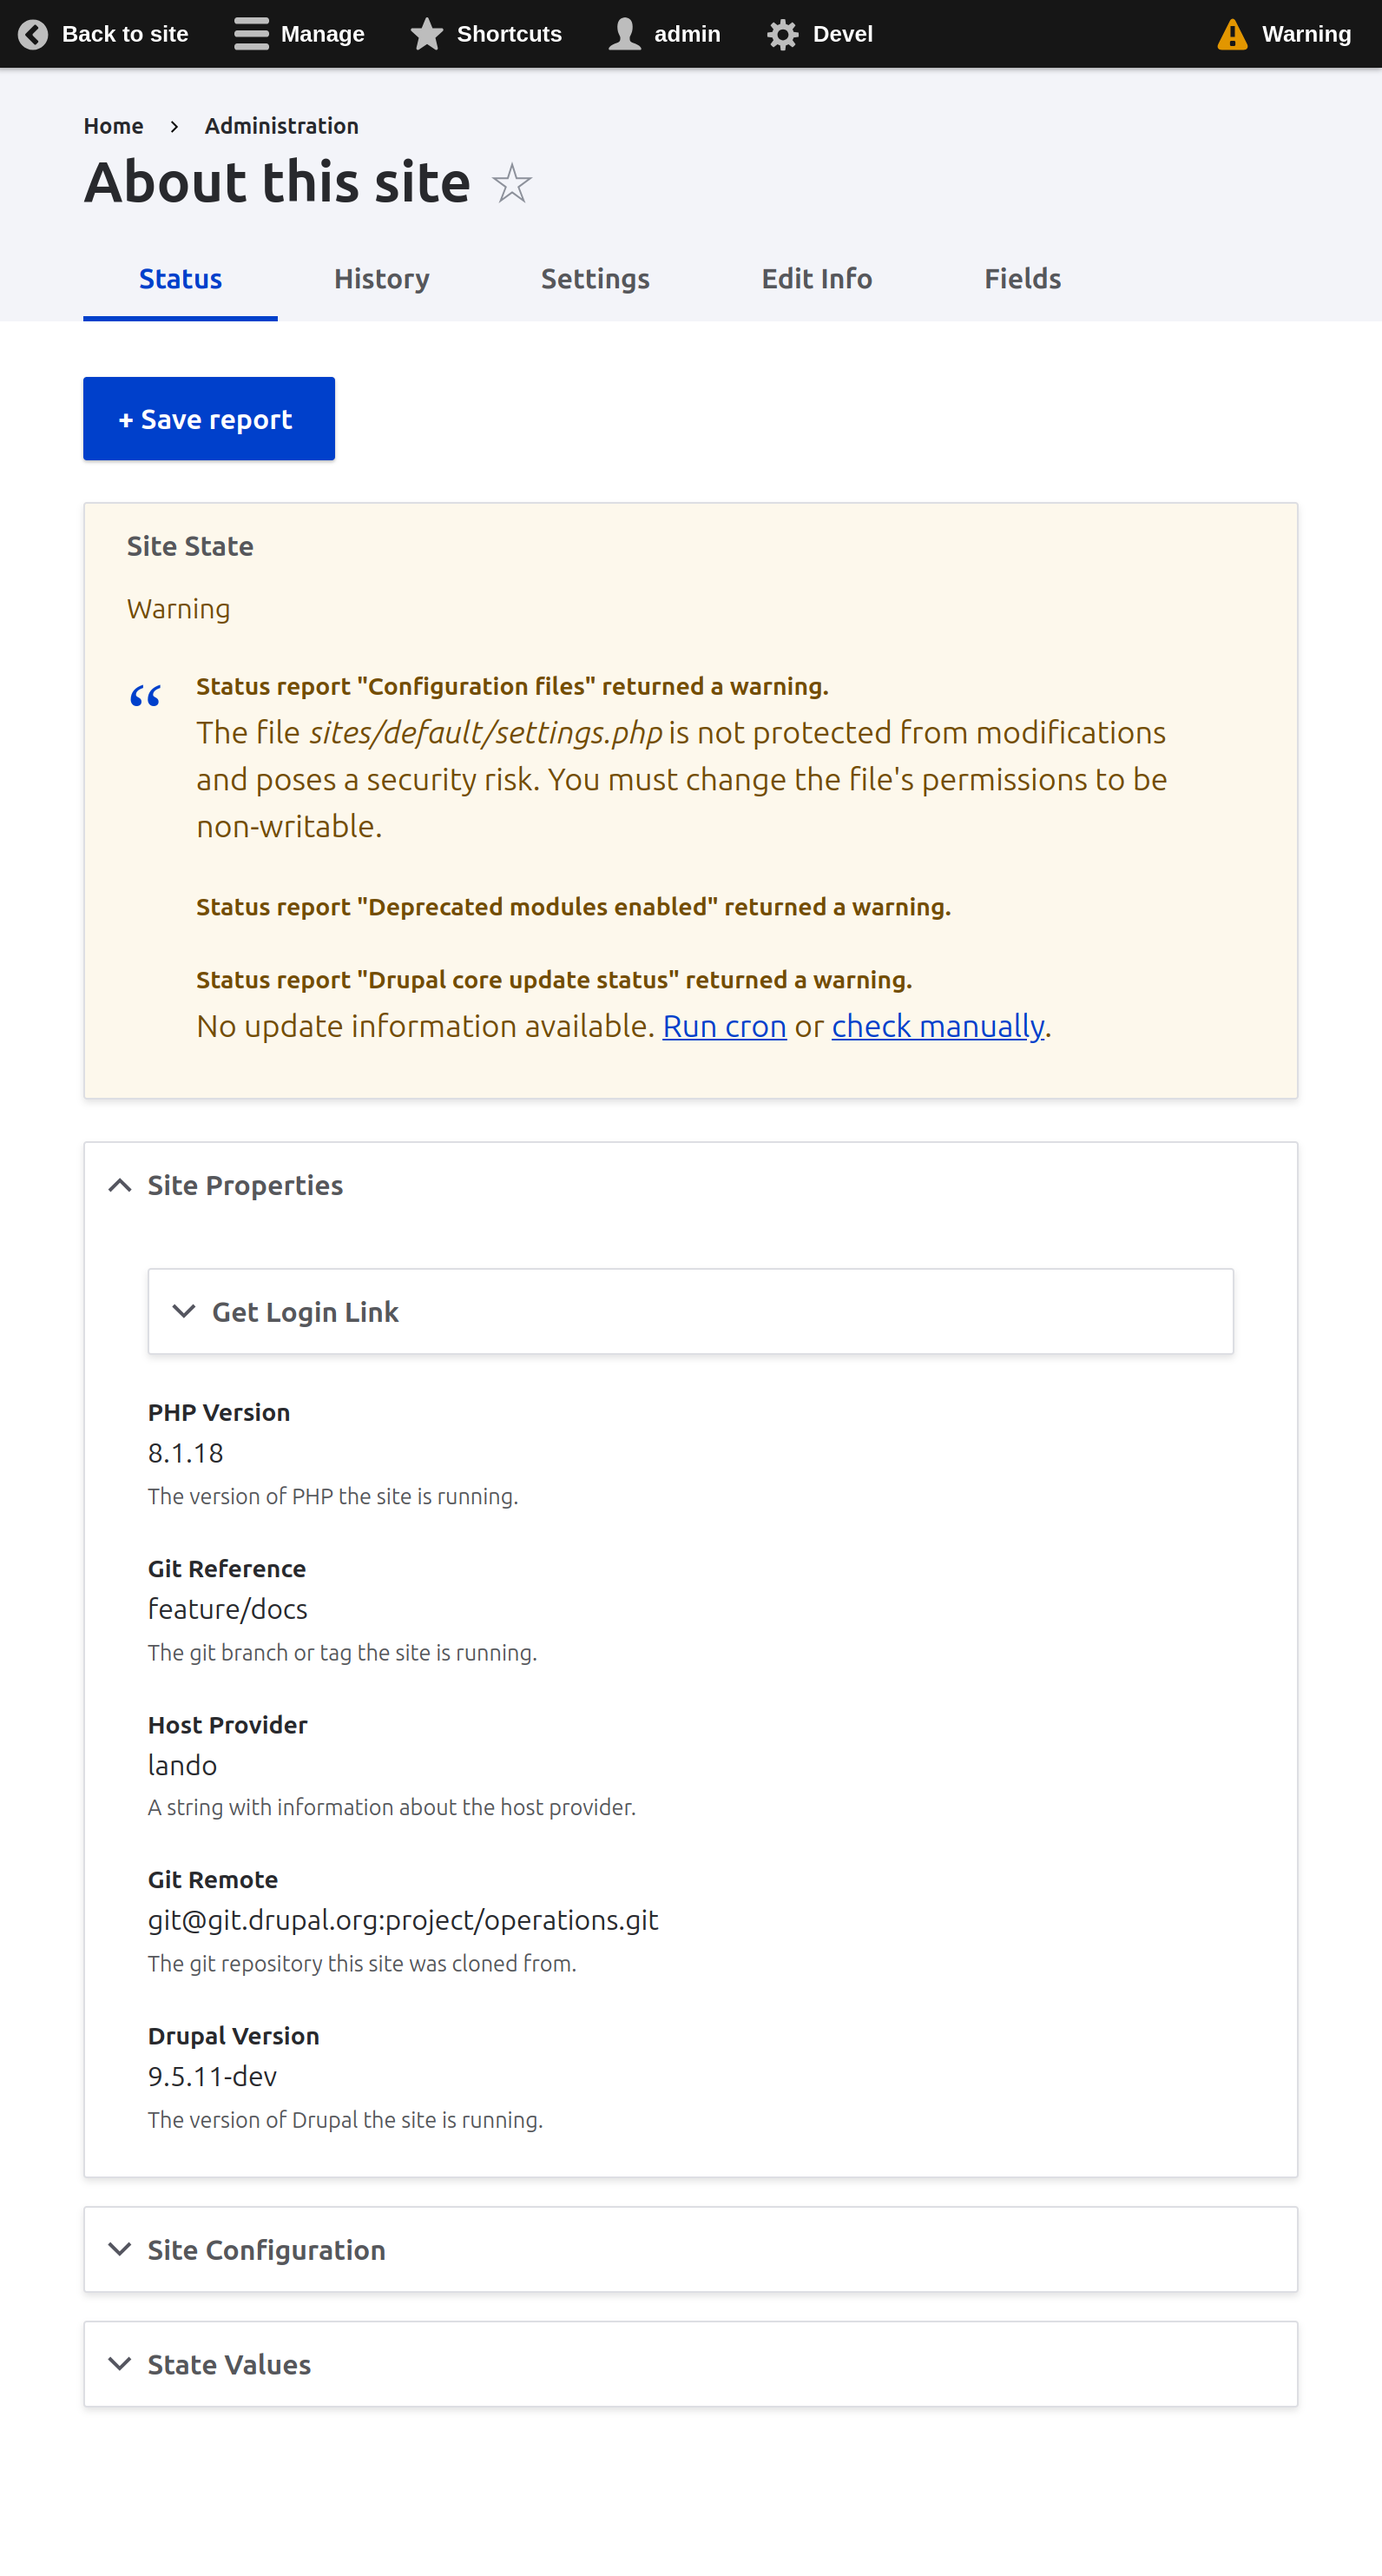
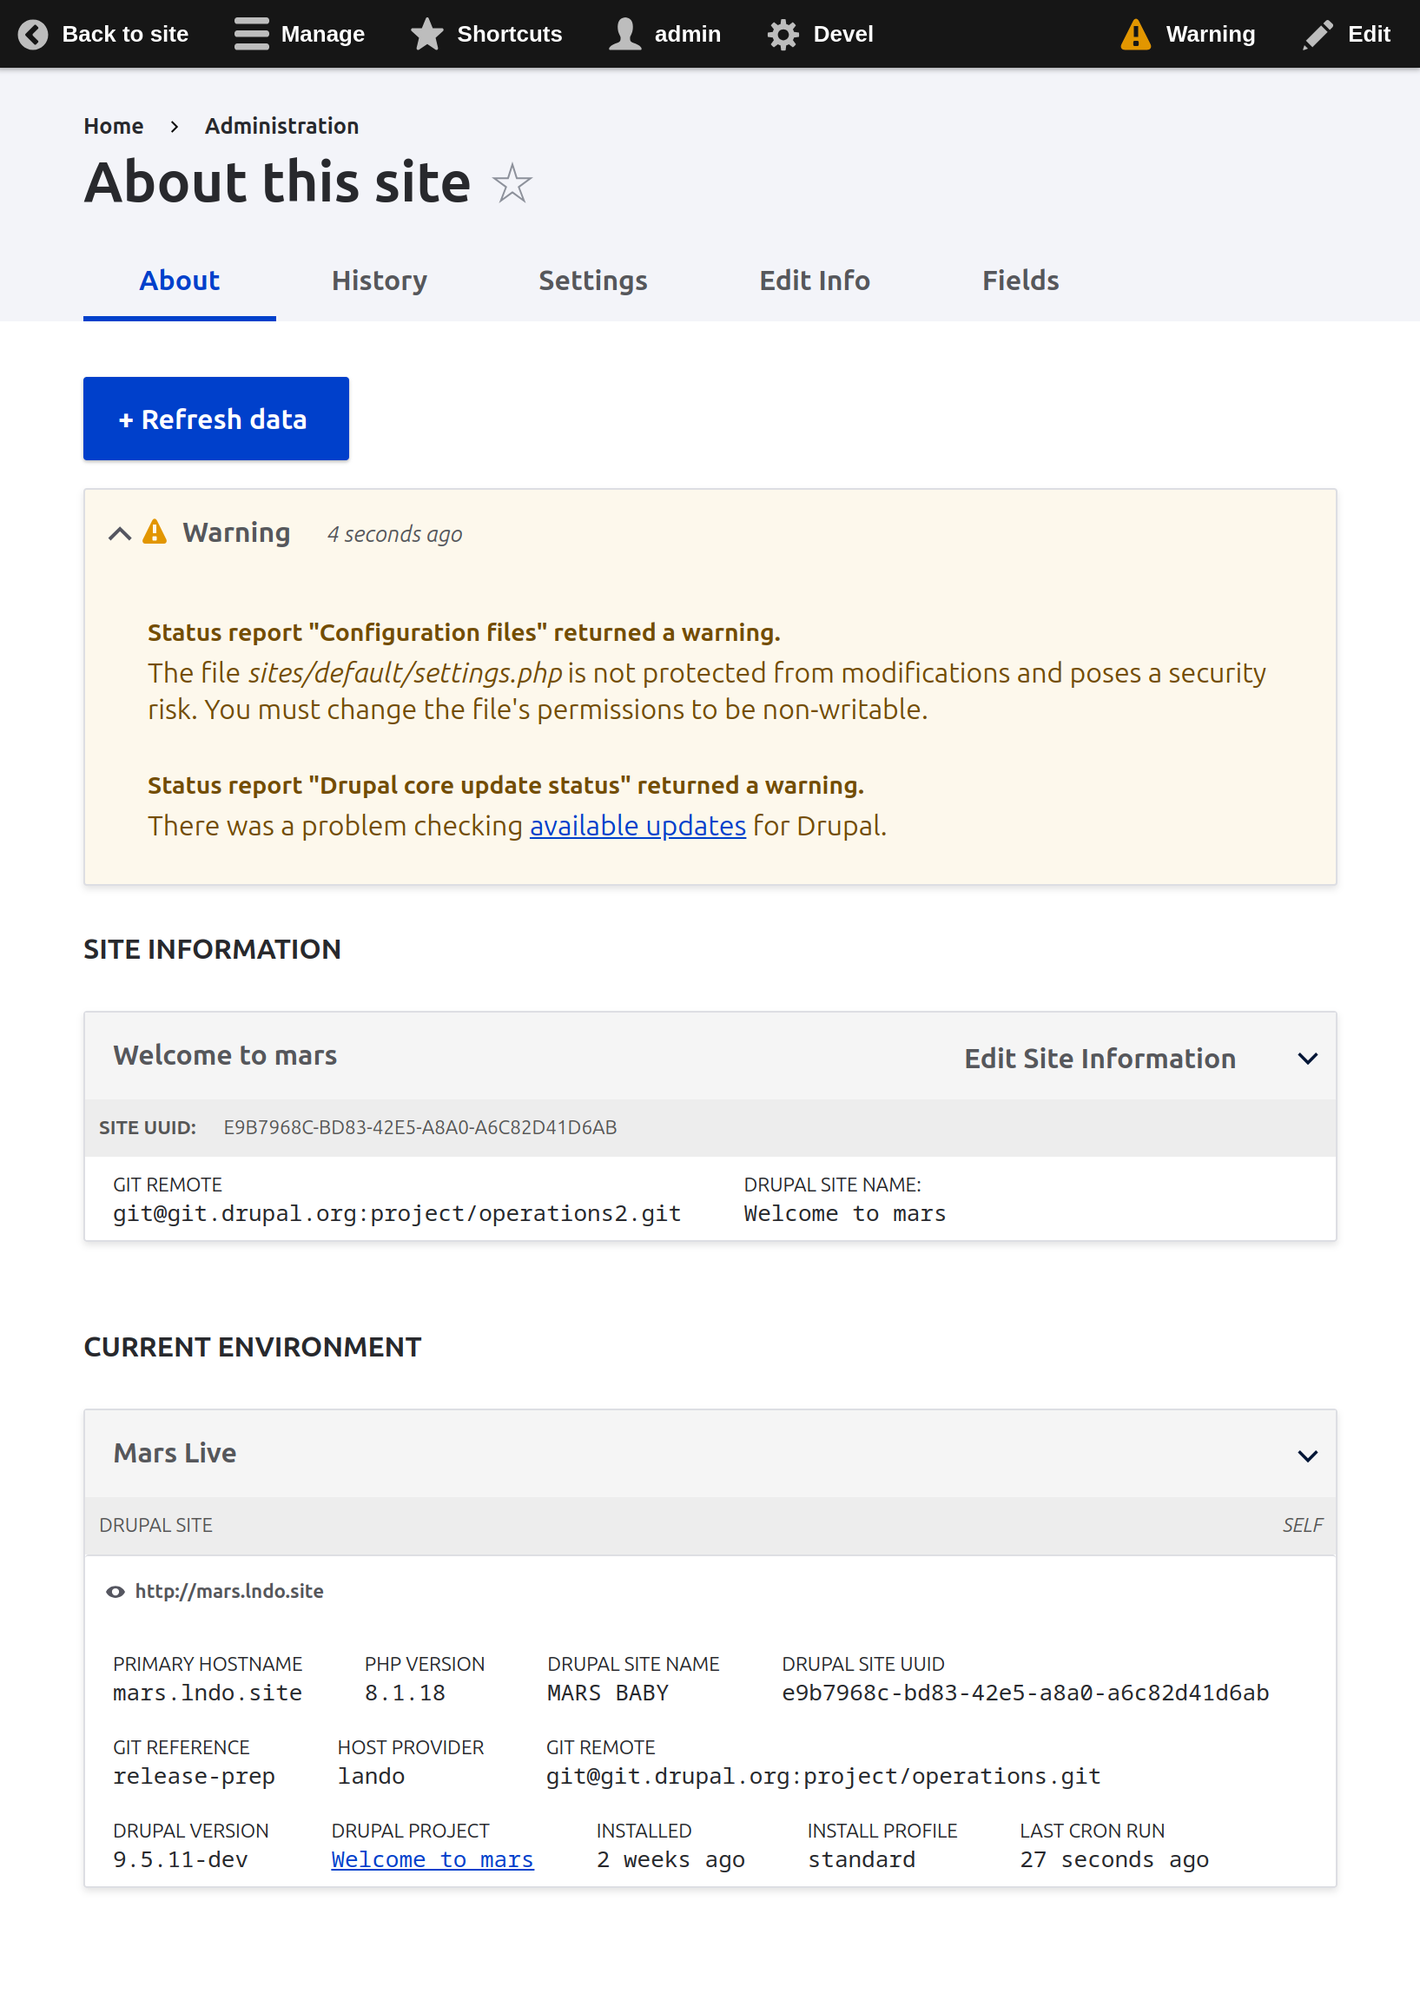
Updating docs for 2.x.

diff --git a/src/modules/site/src/Controller/SiteActionsController.php b/src/modules/site/src/Controller/SiteActionsController.php
@@ -46,7 +46,25 @@ class SiteActionsController extends ControllerBase {
    * @return \Symfony\Component\HttpFoundation\RedirectResponse
    */
   public function refresh(SiteEntity $site) {
-    $site->getRemote()->save();
+    // Get remote data...
+    $site = $site->getRemote();
+    $violations = $site->validate();
+
+    // Save the site if there are no violations.
+    // @TODO: getRemote() triggers a EntityChangedConstraintValidator to fail.
+    // This code ignores it.
+    if ($violations->count() == 0 || ($violations->count() == 1 && $violations->get(0)->getMessageTemplate() == "The content has either been modified by another user, or you have already submitted modifications. As a result, your changes cannot be saved.")) {
+      $site->save();
+      \Drupal::messenger()->addStatus(t('Site data has been updated.'));
+    }
+    else {
+
+      \Drupal::messenger()->addStatus(t('The site could not validate:'));
+      foreach ($violations as $violation) {
+        \Drupal::messenger()->addError($violation->getMessage());
+      }
+    }
+
     return $this->redirect('entity.site.canonical', [
       'site' => $site->id(),
     ]);

diff --git a/src/modules/site/src/Entity/DrupalProject.php b/src/modules/site/src/Entity/DrupalProject.php
@@ -7,6 +7,7 @@ use Drupal\Core\Entity\EntityStorageInterface;
 use Drupal\Core\Entity\EntityTypeInterface;
 use Drupal\Core\Entity\RevisionableContentEntityBase;
 use Drupal\Core\Field\BaseFieldDefinition;
+use Drupal\Core\Field\FieldStorageDefinitionInterface;
 use Drupal\Core\Routing\RedirectDestinationTrait;
 use Drupal\Core\Url;
 use Drupal\site\DrupalProjectInterface;
@@ -382,7 +383,21 @@ class DrupalProject extends RevisionableContentEntityBase implements DrupalProje
       ->setDisplayConfigurable('view', TRUE);
     ;
 
-
+    $fields['canonical_url'] = BaseFieldDefinition::create('uri')
+      ->setRevisionable(TRUE)
+      ->setRequired(FALSE)
+      ->setLabel(t('Canonical URL'))
+      ->setDescription(t('The main URL that this site is hosted under.'))
+      ->setDisplayConfigurable('form', TRUE)
+      ->setDisplayOptions('form', [
+        'type' => 'string_textfield',
+      ])
+      ->setDisplayConfigurable('view', TRUE)
+      ->setDisplayOptions('view', [
+        'label' => 'inline',
+        'type' => 'link',
+      ])
+    ;
 
     return $fields;
   }

diff --git a/src/modules/site/src/Plugin/SiteProperty/DrupalSiteUuid.php b/src/modules/site/src/Plugin/SiteProperty/DrupalSiteUuid.php
@@ -48,6 +48,10 @@ class DrupalSiteUuid extends SitePropertyPluginBase {
         'type' => 'string',
       ])
       ->setDisplayConfigurable('form', TRUE)
+      ->setDisplayOptions('form', [
+        'type' => 'string_textfield',
+        'weight' => -90,
+      ])
     ;
 
     return $fields;

diff --git a/docs/SITE.md b/docs/SITE.md
@@ -34,6 +34,16 @@ This information is saved over time in *Site Reports*. Press the *Save Report*
 button 
 saves this information as a snapshot, viewable on the *History* tab.
 
+### Site Information 
+#### "Drupal Project" entity
+
+This display is a "Drupal Project" entity. It is the same across all environments of your Drupal website. Use it for fields you wish to make available to all instances of this site.
+
+### Current Environment
+#### "Site" Entity
+
+This display is for the "Site" entity, unique to the environment you are running in. When loading this page in a new environment, you will see a "Create Site Record" button instead of this display. Click it to create the site entity with all properties gathered.
+
 ### Site State
 
 *Site State* is a single value that represents the overall state of your 
@@ -90,7 +100,6 @@ page.
 ![Site History](site-history.png)
 
 ## Site History Reports
-
 <img src="site-report.png" alt="Site State Settings" width="50%" align="right"/>
 
 Each entry in the Site History page is a snapshot in time.
@@ -144,25 +153,24 @@ small changes to their site using SiteEntity fields.
 
 <br clear="both">
 
-### Retrieving Site Entity Fields
+### Retrieving Site Entity & Drupal Project Fields
 
-Loading the Site Entity to get it's fields is almost the same as any other 
-entity.
+Loading the Site Entity or Drupal Project entity to get it's fields is almost the same as any other entity.
 
 Instead of loading it by ID, you can just get the site entity for the 
-current site with `SiteEntity::getSelf()`
+current site with `SiteEntity::getSelf()` or `DrupalProject::getSelf()`.
 
 For example, to load a field and present a message, you can use this code. 
 ```php
 <?php 
-  use \Drupal\site\Entity\SiteEntity;
+  use \Drupal\site\Entity\DrupalProject;
   
   // Load the entity just like any other, but with loadSelf().
-  /** @var SiteEntity $site_entity */
-  $site_entity = SiteEntity::loadSelf();
+  /** @var DrupalProject $drupal_project */
+  $drupal_project = SiteEntity::loadSelf();
   
   // Load the field value just like any field.
-  $welcome_message = $site_entity->get('field_welcome_message')->value;
+  $welcome_message = $drupal_project->get('field_welcome_message')->value;
   
   // Do something with the value.
   \Drupal::messenger()->addStatus($welcome_message);
@@ -175,6 +183,12 @@ For example, to load a field and present a message, you can use this code.
 
 <br clear="both">
 
+### Site vs Project
+
+Remember: anything unique to that environment is saved to `SiteEntity` objects. This means URLs, PHP Version, etc. 
+
+Data that is saved across environments is saved into `DrupalProject` entities. If you wish to use fields for your site with the same entity in every environment, use the `DrupalProject` entity. The only properties included by default are Site UUID, git URL, and Canonical URL.
+
 ## Site Settings
 The Site Settings page controls how Site Status and Reports are handled.
 
@@ -183,8 +197,7 @@ The Site Settings page controls how Site Status and Reports are handled.
 ## State
 
 The factors that affect Site State can be configured. Currently supported 
-factors are Drupal Core Status report page, and [Site Audit](https://drupal.
-org/project/site_audit) module.
+factors are Drupal Core Status report page, and [Site Audit](https://drupal.org/project/site_audit) module.
 
 Choose the factors that make the most sense for your site.
 <br clear="both">
@@ -233,24 +246,40 @@ site and Manage Display and Form just like any other Drupal site.
 
 See [SiteEntity Class](../src/modules/site/src/Entity/SiteEntity.php).
 
-### Site Definition
+### Site Entity Bundles
 
-A "Site Definition" is a Config Entity that has special methods for loading
-realtime information into the `SiteDefinition` class.
+Site Entity bundles are for different types of sites. Each bundle type contains the fields that make sense for that type.
 
-Each site gets a single `SiteDefinition` config item called `site.
-site_definition.self`. The config is managed on the [Site Settings](#site-settings)
-page.
+1. `SiteEntity`: Top object. All site entities have these fields: hostname, site_uri, state, reason, site_title, data, settings.
+2. `DefaultSiteBundle` 
+   - `getRemote()` method loads HTTP status and content from site_uri fields.
+   - `getPageTitle()` method parses the HTML and loads the <title> field. 
+   - 
+4. `WebAppBundle` > `PhpSiteBundle`: Placeholders. Could be used in the future for non PHP, non Drupal websites.
+4. `DrupalSiteBundle`: 
+   - `getRemote()` method accesses SiteAPI to gather data, if it exists.
+5. `SiteManagerSiteBundle`: Used to connect to a remote Site Manager instance. Validates the API key works.
 
-The `SiteDefinition` entity represents real-time values for state and
-properties.
+`SiteProperty` fields can define what bundles they appear on, allowing fields to attach to different site types depending on what they are.
 
-To save these properties for use later, `SiteDefinition::saveEntity()` is
-used to create and store a new revision of the Site's `SiteEntity`.
+For example, the PHP Version property is attached to `PhpSiteBundles`, and every bundle that extends it (Such as `DrupalSiteBundle`.)
 
-See [SiteDefinition Class](../src/modules/site/src/Entity/SiteDefinition.php).
+      /*
+      * @SiteProperty(
+      *   id = "php_version",
+      *   name = "php_version",
+      *   label = @Translation("PHP Version"),
+      *   site_bundles = {
+      *     "Drupal\site\Entity\Bundle\PhpSiteBundle"
+      *   },
+      *   description = @Translation("The version of PHP the site is running.")
+      */
 
-### Site Property
+### Drupal Project
+
+A "Drupal Project" entity is stored once per installed Drupal site. The ID of the project is the Drupal Site UUID. This entity gets copied along with your content to other environments. Use it to store field data that needs to be available in all environments.
+
+### Site Properties
 
 The `SiteProperty` Plugin type is a simple class that defines a data point
 about the site.
@@ -263,3 +292,18 @@ for later use.
 
 See [Plugins\SiteProperty folder](../src/modules/site/src/Plugin/SiteProperty)
 in the Site module for examples. 
+
+
+### Site Actions
+
+The `SiteAction` plugin types provide simple user interface for taking specific actions on sites.
+
+Site Actions get automatically added to the "Operations" widget of site entities. Look for the ^ dropdown button on site entity teasers.
+
+For example, the `UserLogin.php` site action adds a "Sign in" link to this menu:
+
+![Site Actions menu](./site-actions.png)
+
+See [Plugins\SiteAction folder](../src/modules/site/src/Plugin/SiteAction)
+in the Site module for examples. 
+

diff --git a/docs/SITE-MANAGER.md b/docs/SITE-MANAGER.md
@@ -13,6 +13,14 @@ Entity over via REST.
 
 Site Manager can control the config, state, and fields of connected sites.
 
+Site Manager can remotely sign into Drupal sites, allowing admins to connect directly to client sites without needing a password or Drush.
+
+## Drupal Operations Experience Platform
+
+This project is a part of the [Drupal Operations Platform](https://www.drupal.org/project/operations), the Ops Dashboard built in Drupal.
+
+For all issues, development, and more information, see https://www.drupal.org/project/operations
+
 ## Usage
 
 Site Manager provides a content entity called "Site". It is basically a CMS 
@@ -24,31 +32,17 @@ The list of sites is under Admin > Content > Sites.
 
 ### Add Site
 
-Not Yet Implemented.
+A site entity can be any website. Visit Admin > Content > Sites to view the list of sites.
 
-Currently, the only way to add a site is to install Site.module on the 
-client site and configure it to start sending it to Site Manager.
+Press "Add site" to create a new site.
 
-Adding a Site Entity directly using this form is challenging because we need 
-an ID: The Site UUID.
+### Site Types
 
-@TODO:
+There are 3 basic site types by default:
 
-1. Create the "Add site" route to show 2 options for adding sites: instructions 
-   for adding `drupal/site` to a client site, and the "Add Site" form. 
-2. Generate a site UUID by default, but allow a user to override it if they 
-   know it.
-2. Once saved, on the site entity, show the user how to connect a remote 
-   site by setting the UUID and adding `drupal/site`.
-
-
-### Admin > Structure > Site Types
-
-The list of site types. There is only one site type right now: "default". 
-
-This is where you can manage the fields of Site Entities.
-
-Site Types are not yet implenented.
+1. Basic website. Use to add any generic URL.
+2. Drupal website. Use for Drupal websites that might implement Site API for extra information. Also allows site actions to be taken like User login link.
+3. Site Manager. Use for Site Manager instances that you want to send site data to.
 
 ### Remote Control
 
@@ -89,11 +83,13 @@ with field data received from Site Manager.
 
 ## Site Actions
 
-### Get Login Link
+### Sign In
 
 Site Manager can connect to client sites and request one-time login links.
 
 To set up remote login, there are a few steps:
 
-1. On the client site, get an API key for the user you wish to login with
-
+1. On the client site, visit "My Account" > "Key Authentication" for the user you wish to allow signing in as.
+2. Generate and copy an API key.
+3. On site manager, edit the Site entity and add the API key.
+4. Click the "^" menu on the site and click "Sign in" to view the "request a login link" form.

diff --git a/src/modules/site/README.md b/src/modules/site/README.md
@@ -1,8 +1,12 @@
 # Site Entity Module
 
-The **Site.Module** provides a new way to view and store data about your Drupal site. When enabled, a *Site Entity* is created that includes data on Drupal & PHP versions, Git information, and more. 
+The **Site.Module** provides an entity to represent any website.
+
+Site Module can view, store, and send data about your Drupal site. When enabled, a *Site Entity* is created that includes data on Drupal & PHP versions, Git information, and more. 
 
 The *Site Entity* has a "Site State" property indicating the overall health of your site using the core "Status report", [Site Audit module](https://www.drupal.org/project/site_audit) reports, or write your own SiteState plugin. The "Reason" property stores text describing why the site is in a certain state.
+
+The HTTP status code for the site affects state, making Site module a lightweight monitoring solution.
 
 The *Site Entity* is revisionable, providing a detailed history of the state of your site, including changes to configuration with a log of who changed what, where.
 
@@ -13,18 +17,18 @@ The *Site Entity* has a REST API, allowing you to POST or GET site entities from
 
 ## Drupal Operations Experience Platform
 
-This project is a part of the [Drupal OX Platform](https://www.drupal.org/project/ox), the Ops Dashboard built in Drupal.
+This project is a part of the [Drupal Operations Platform](https://www.drupal.org/project/operations), the Ops Dashboard built in Drupal.
 
-For all issues, development, and more information, see https://www.drupal.org/project/ox
+For all issues, development, and more information, see https://www.drupal.org/project/operations
 
 ## How to use
 
 Install site.module with composer & drush:
 
-        composer require drupal/site-site
+        composer require drupal/site
         drush en site
 
-*NOTE:* The package name is "site-site" due to a mistake in Drupal packagist packing.
+*NOTE:* If you are upgrading from Site Module 1.x, the package name is `drupal/site-site`. You MUST uninstall site module before removing the old version and adding the new. See [upgrading from 1.x](./) 
 
 ### Site Status Widget
 
